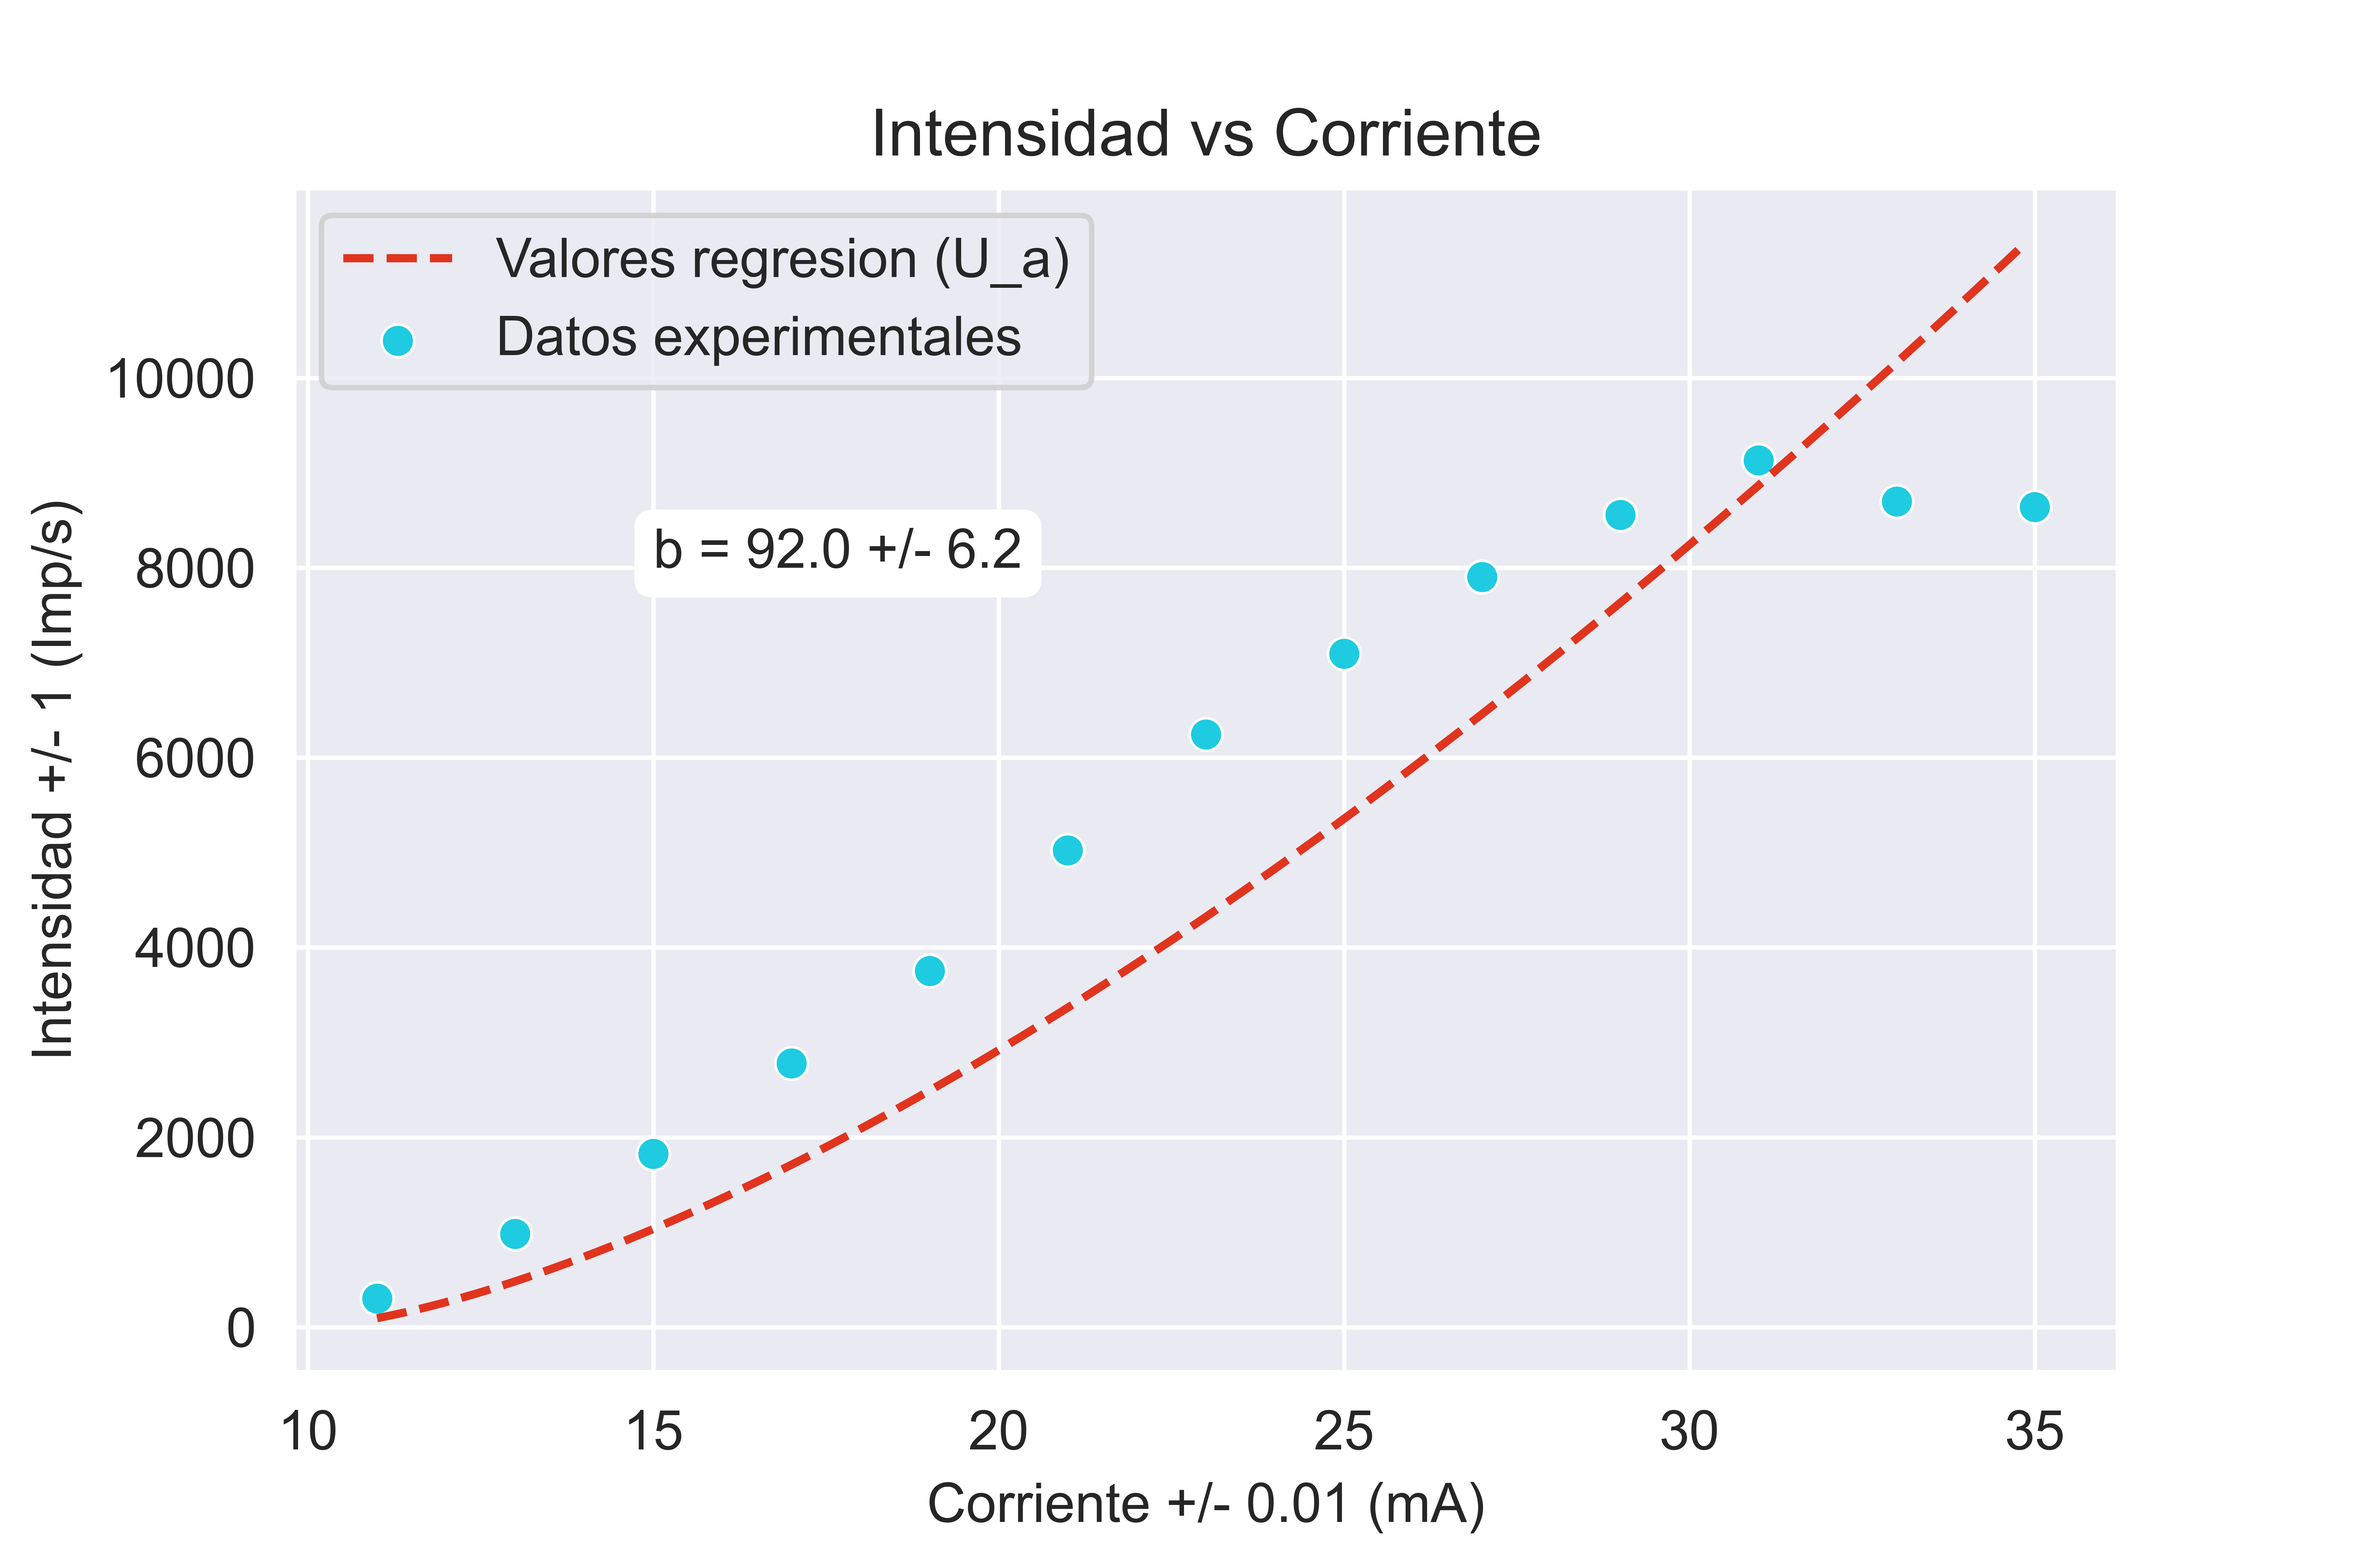
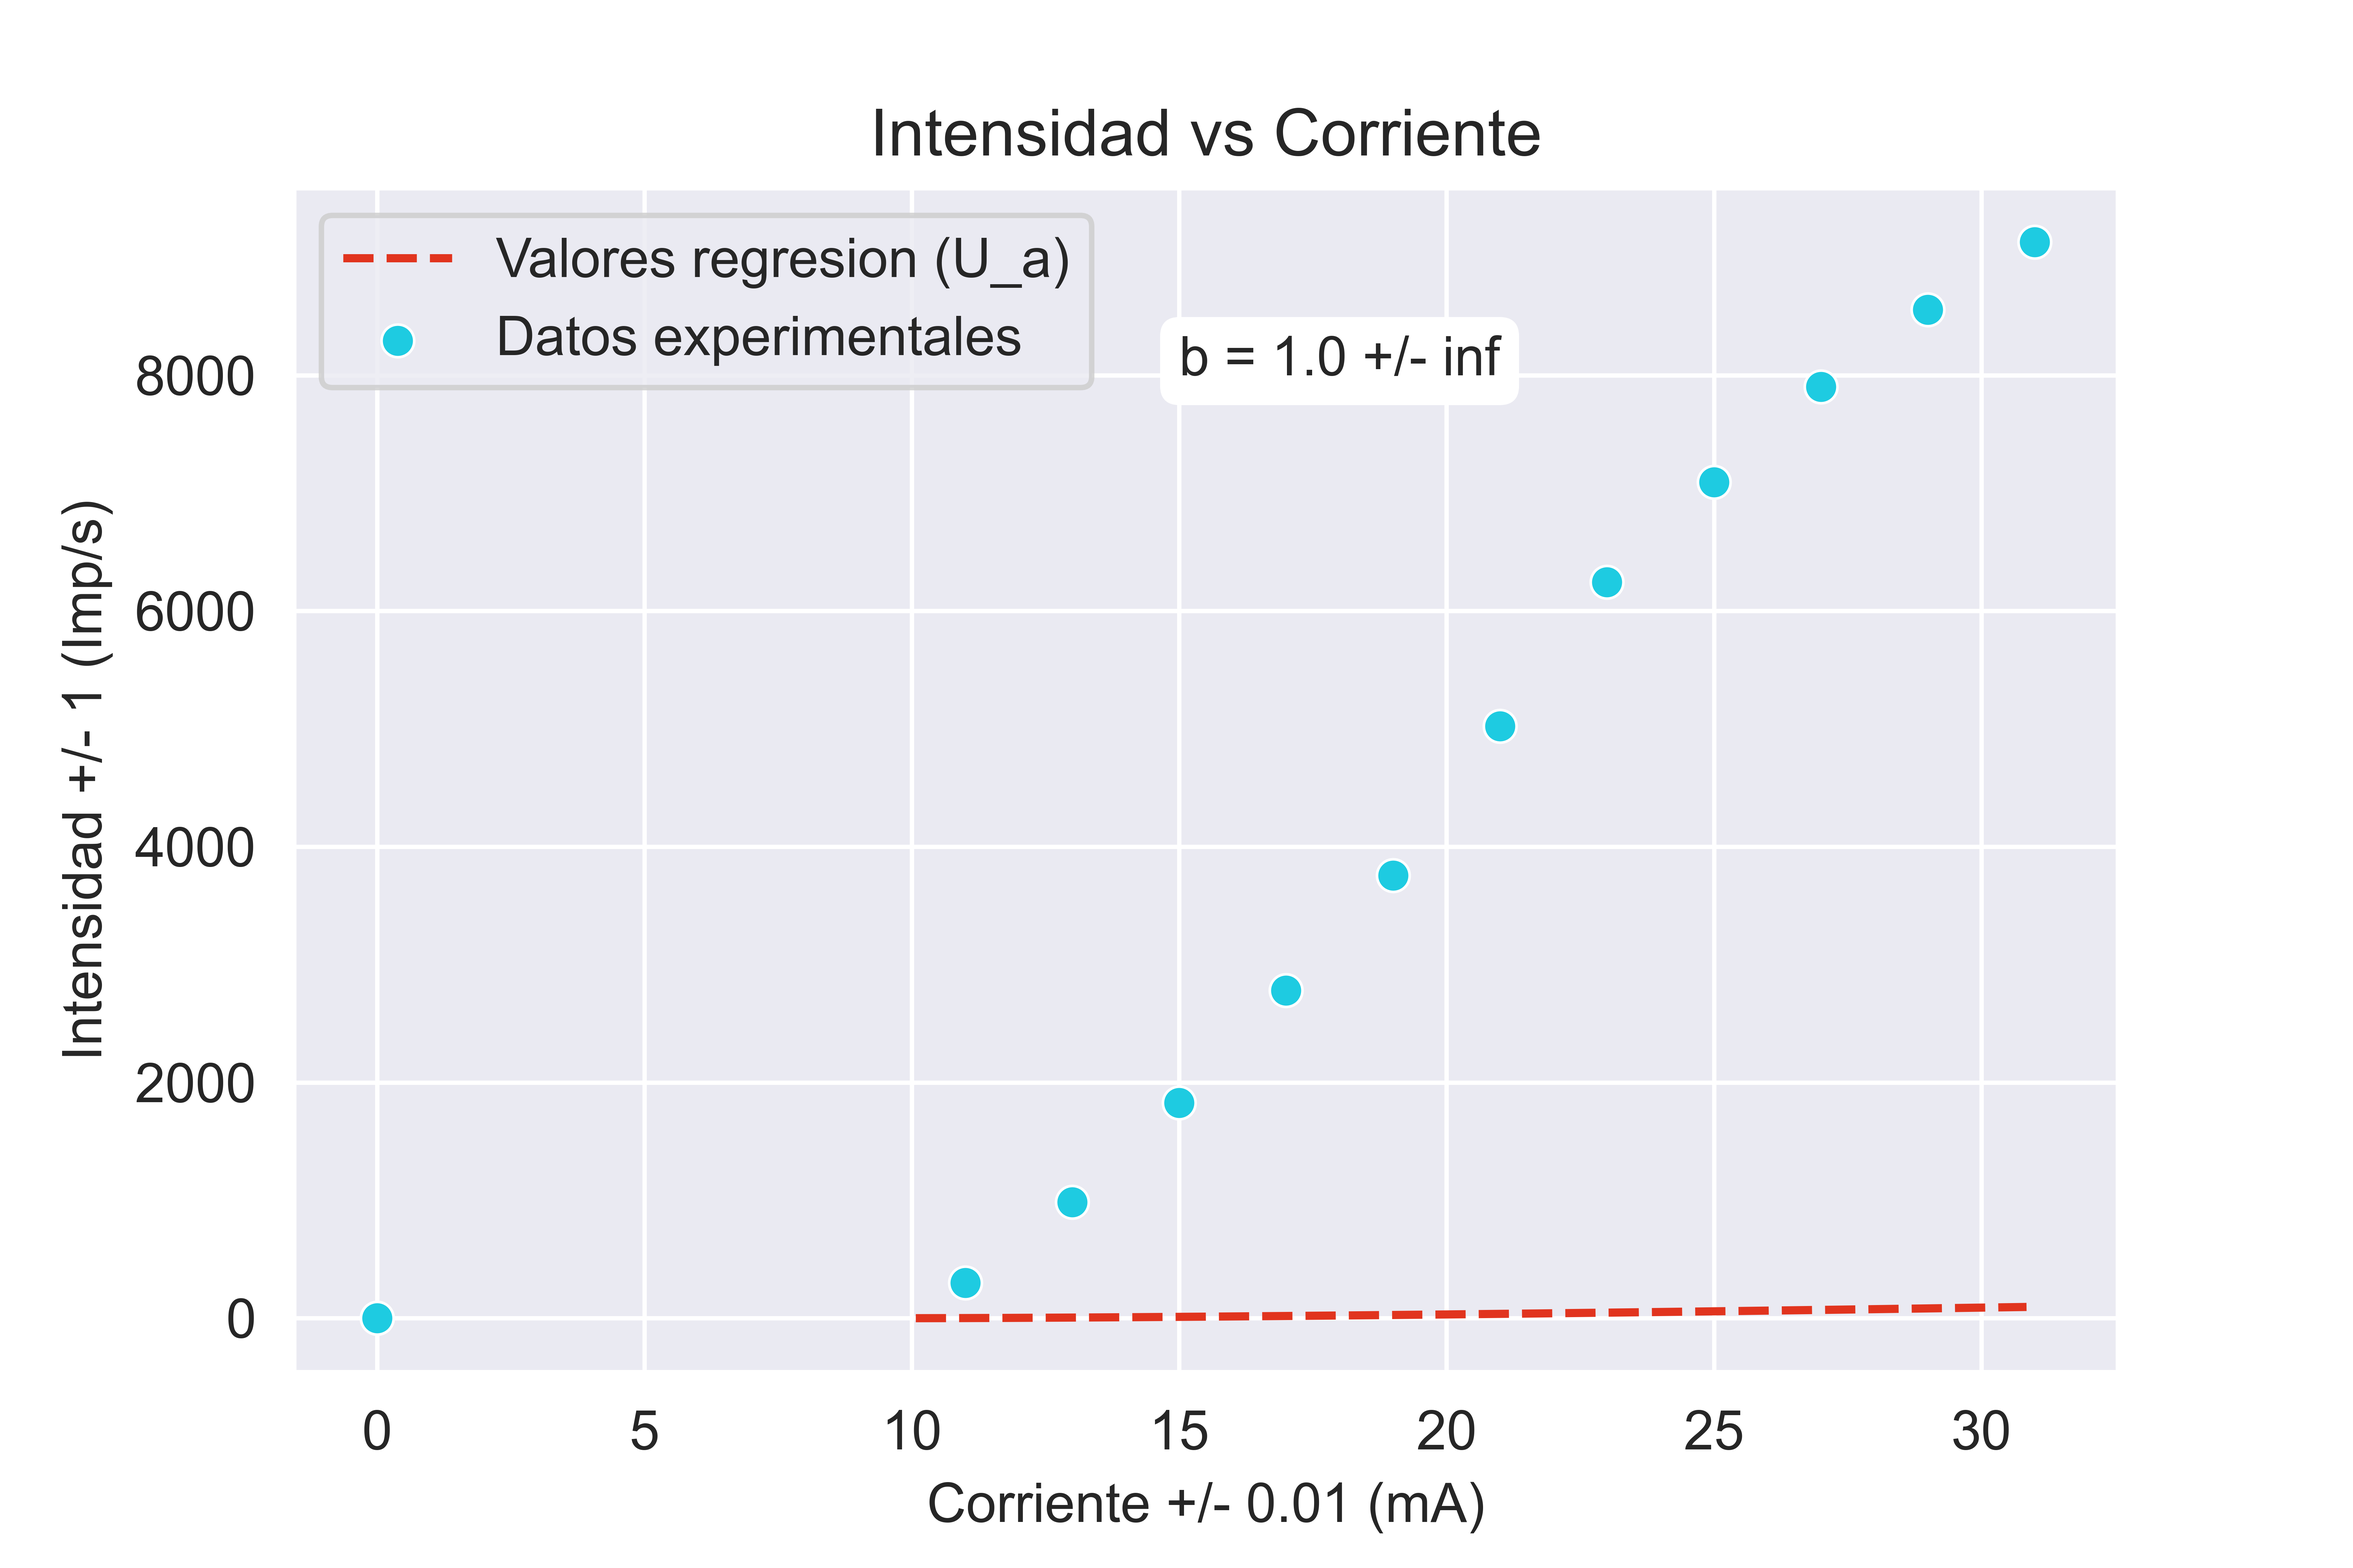
Rayos X completo

diff --git a/Codigos/Analisis de datos/Analisis rayos X.py b/Codigos/Analisis de datos/Analisis rayos X.py
@@ -319,6 +319,7 @@ plt.title("Intensidad vs Longitud de onda (voltaje variable)")
 #%%
 K = df21_v[df21_v["Angulo"] == 20.3]
 
+
 Is = np.zeros(len(voltajes))
 x = np.zeros(len(voltajes))
 
@@ -329,6 +330,7 @@ for i in range(len(voltajes)):
 h = (max(x) - min(x))/200
 
 x_grid = np.arange(min(x),max(x), h)
+
 
 popt, pcov = curve_fit(fun2, x, Is) 
 
@@ -372,7 +374,7 @@ sns.scatterplot(data=df22_i,
         x="corrientes", y="Intensidad",
         label="Datos experimentales",color="#1ECBE1")
 
-plt.plot( x_grid , fun2(x_grid, *popt), 
+plt.plot( x_grid , fun3(x_grid, *popt), 
     label="Valores regresion (U_a-U_k varibale)"
     ,color="#E1341E", linestyle="dashed")
 
@@ -482,13 +484,17 @@ voltajes = ["13kV","15kV","17kV","19kV","21kV"
 
 i_s = [0,3,6,8]
 
-theta = df21_i["Angulo"]
+theta = df31["Angulo"]
 
 lam = 1E9* Bragg(np.radians(theta), 2.014E-10, 1)
 
 df31["Longitud de onda"] = lam
 
 #%%
+
+
+
+
 plt.figure()
 for i in i_s:
     sns.scatterplot(
@@ -498,5 +504,60 @@ for i in i_s:
     )
 plt.xlabel("λ [nm]")
 plt.ylabel("Intensidad")
+plt.vlines(0.075, 0, 4000, linestyles ="dotted", colors ="k", label="λ_0")
 plt.title("Intensidad vs Longitud de onda (Voltaje variable))")
+plt.legend()
+plt.savefig(__Ipath__ + "Actividad 4-1.png", dpi=1200)
+
+
+
+# %%
+
+"""
+Analisis
+"""
+
+url31="C:/Users/frawo/Documents/Programacion/Utilities/Data/Intermedio/CSV/Lambdas_minimos.csv"
+
+df32 = pd.read_csv(url31,
+                header=0)
+
+
+
+y = df32["Lambda"]
+
+x = df32["Voltaje"] 
+
+h = (max(x)-min(x))/200
+
+x_grid = np.arange(min(x),max(x),h) 
+
+lin4 = stats.linregress(x,y)
+
+b = round(lin4.slope,2)
+b_sterr = round(lin4.stderr,2)
+
+bbox = dict(boxstyle ="round",facecolor='white')
+
+plt.figure()
+
+sns.scatterplot(data = df32,
+                x="Voltaje",y="Lambda",
+                label="Datos experimentales",
+                color="#1ECBE1")
+
+plt.plot(x, lin4.intercept + lin4.slope*x, 
+         label='regresion',linestyle="dashed",
+         color="#E1341E")
+
+plt.annotate("b = {} +/- {}".format(b,b_sterr), xy=(0.04, 0.90),
+             bbox = bbox)
+
+plt.xlabel("1/Ua [kV^-1]")
+plt.xlabel("λ [nm]")
+plt.legend()
+plt.title("Lmabda minimo vs inverso de voltaje")
+
+plt.savefig(__Ipath__ + "Actvidad 4-2.png", dpi=1200)
+
 # %%
